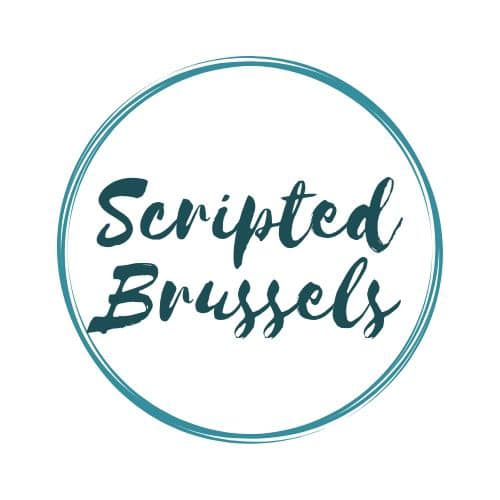
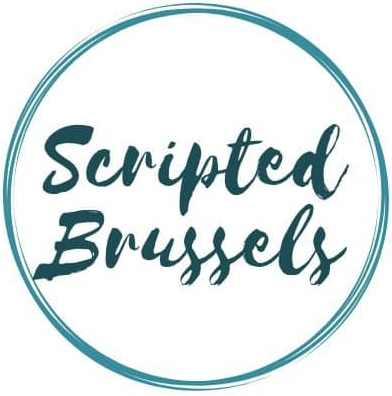
Fix image resizing

Changed region(s): [[0.0, 0.0, 1.0, 1.0]]

diff --git a/ScriptedBrussels/style.css b/ScriptedBrussels/style.css
@@ -2,8 +2,8 @@
 }
 
 img {
-    min-width: 300px;
-    width: 30%;    
+    max-width: 300px;
+    width: 50%;    
     display: block;
     margin-left: auto;
     margin-right: auto;
